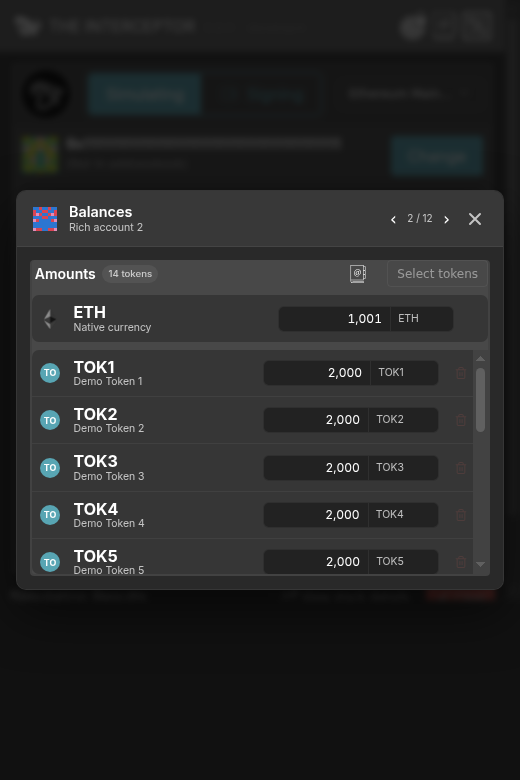
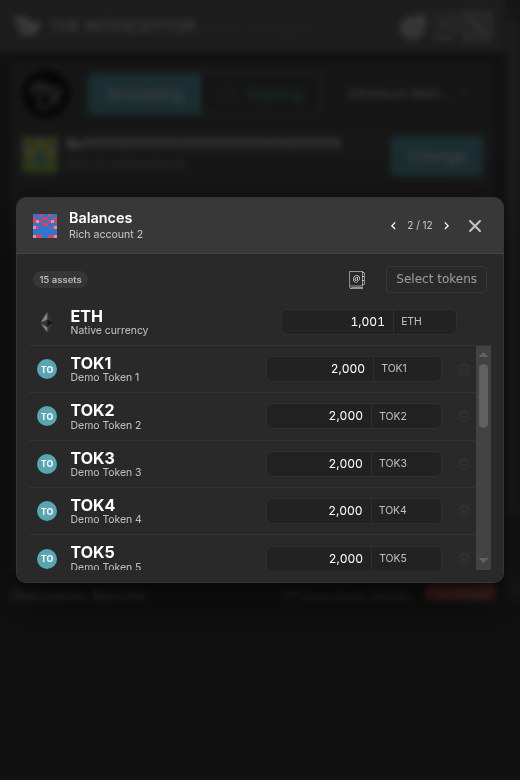
Flatten rich balance dialog content

diff --git a/app/ts/components/pages/Home.tsx b/app/ts/components/pages/Home.tsx
@@ -701,10 +701,11 @@ function RichList({ makeCurrentAddressRich, richNativeAmount, nativeCurrencyTick
 	})
 	const addingRichTokens = useComputed(() => availableRichTokens.value.filter((option) => addingRichTokenKeys.value.includes(getRichTokenKey(option))))
 	const failedAddedRichToken = useComputed(() => availableRichTokens.value.find((option) => getRichTokenKey(option) === failedAddedRichTokenKey.value))
-	const richBalanceTokenCountLabel = useComputed(() => {
+	const richBalanceAssetStatusLabel = useComputed(() => {
 		if (addingRichTokens.value.length !== 0) return `${ addingRichTokens.value.length.toString() } adding`
 		if (failedAddedRichToken.value !== undefined) return 'Needs attention'
-		return `${ enabledRichTokens.value.length.toString() } token${ enabledRichTokens.value.length === 1 ? '' : 's' }`
+		const assetCount = enabledRichTokens.value.length + 1
+		return `${ assetCount.toString() } asset${ assetCount === 1 ? '' : 's' }`
 	})
 	const richOperationStatus = useComputed(() => {
 		if (richTokenPending.value) return { className: 'is-saving', label: addingRichTokenKeys.value.length === 0 ? 'Saving…' : 'Scanning…' }
@@ -898,10 +899,9 @@ function RichList({ makeCurrentAddressRich, richNativeAmount, nativeCurrencyTick
 						subtitle = { selectedRichAccount.value.addressBookEntry.name }
 					/>
 					<InterceptorDialogBody class = { `rich-mode-dialog-body${ showRichTokenPicker.value ? ' is-token-view' : '' }` }>
-						{ !showRichTokenPicker.value ? <div class = 'card rich-mode-modal-content'>
-							<div class = 'card-content rich-mode-balance-page'>
+						{ !showRichTokenPicker.value ? <div class = 'rich-mode-balance-page'>
 								<div class = 'rich-mode-modal-toolbar'>
-									<div class = 'rich-mode-modal-title-group'><p class = 'paragraph checkbox-text rich-mode-modal-section-title'>Amounts</p><span class = 'rich-mode-count-badge'>{ richBalanceTokenCountLabel.value }</span></div>
+									<span class = 'rich-mode-count-badge'>{ richBalanceAssetStatusLabel.value }</span>
 									<div class = 'actions'>
 										<button type = 'button' class = 'btn btn--ghost is-small' aria-label = 'Open token address book' data-tooltip = 'Open token address book' onClick = { () => { void sendPopupMessageToBackgroundPage({ method: 'popup_openAddressBook' }) } }>
 											<span class = 'icon'><img src = '../img/address-book.svg' width = '18' height = '18'/></span>
@@ -944,7 +944,6 @@ function RichList({ makeCurrentAddressRich, richNativeAmount, nativeCurrencyTick
 								</> }
 							{ richTokenPendingLabel.value === undefined ? <></> : <p class = 'help is-light' role = 'status'>{ richTokenPendingLabel.value }</p> }
 							{ richTokenError.value === undefined || richTokenErrorTarget.value !== undefined ? <></> : <p class = 'help is-danger'>{ richTokenError.value }</p> }
-							</div>
 						</div> : <section class = 'rich-mode-token-view' role = 'region' aria-label = { `Select tokens for ${ selectedRichAccount.value.addressBookEntry.name }` }>
 						<header class = 'rich-mode-token-view-navigation'>
 							<button type = 'button' class = 'btn btn--ghost rich-mode-modal-back' aria-label = 'Back to balances' disabled = { richTokenPending.value } onClick = { hideRichTokenSelection }>‹</button>

diff --git a/app/css/interceptor.css b/app/css/interceptor.css
@@ -3714,21 +3714,14 @@ header:has(form[role='search']) h1 {
 	white-space: nowrap;
 }
 
-.rich-mode-modal-content {
-	background: transparent;
-	border: 0;
-	margin: 0;
+.rich-mode-dialog-body {
+	padding: 0.75rem;
 }
 
-.rich-mode-modal-content > .card-content {
+.rich-mode-balance-page {
 	display: flex;
 	flex-direction: column;
 	min-height: 0;
-	padding: 0;
-}
-
-.rich-mode-dialog-body {
-	padding: 0.75rem;
 }
 
 .rich-mode-dialog-body.is-token-view {
@@ -3872,17 +3865,8 @@ header:has(form[role='search']) h1 {
 	align-items: center;
 	display: flex;
 	justify-content: space-between;
-	margin-bottom: 0.5rem;
-}
-
-.rich-mode-modal-title-group {
-	align-items: center;
-	display: flex;
-	gap: 0.4rem;
-}
-
-.rich-mode-modal-section-title {
-	font-weight: 600;
+	min-height: 2rem;
+	padding: 0 0.25rem 0.35rem;
 }
 
 .rich-mode-count-badge {
@@ -3907,9 +3891,7 @@ header:has(form[role='search']) h1 {
 }
 
 .rich-mode-balance-row--native {
-	background-color: var(--dialog-panel-color);
-	border-radius: 7px;
-	margin-bottom: 0.5rem;
+	border-bottom: 1px solid var(--alpha-005);
 }
 
 .rich-mode-balance-row.is-adding {
@@ -4082,8 +4064,6 @@ header:has(form[role='search']) h1 {
 }
 
 .rich-mode-configured-tokens {
-	background-color: var(--dialog-panel-color);
-	border-radius: 7px;
 	max-height: min(14em, 45vh);
 	overflow-y: auto;
 }

diff --git a/test/tests/popupIconResync.test.ts b/test/tests/popupIconResync.test.ts
@@ -1238,6 +1238,8 @@ describe('popup icon sync', () => {
 				if (activeAccountButton !== undefined) await clickElement(activeAccountButton)
 			})
 			assert.equal(hasAriaLabel(dom.document.body, 'Balance editor for Loaded Account'), true)
+			assert.equal(collectElements(dom.document.body, 'div').some((element) => hasClass(element, 'rich-mode-modal-content')), false)
+			assert.equal(collectElements(dom.document.body, 'p').some((element) => element.textContent === 'Amounts'), false)
 			assert.equal(hasAriaLabel(dom.document.body, 'Remove rich token USDC'), true)
 			assert.equal(hasAriaLabel(dom.document.body, 'Remove rich token ITEM #42'), true)
 			assert.equal(hasAriaLabel(dom.document.body, 'Remove rich token WETH'), true)
